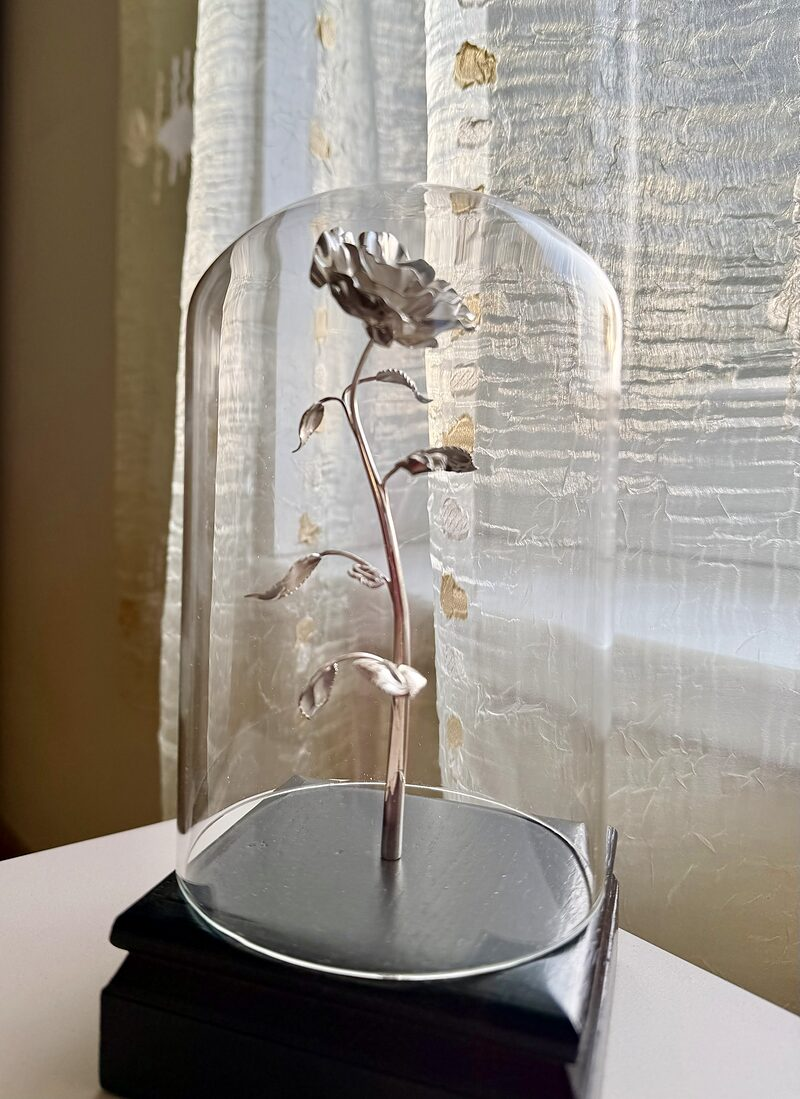
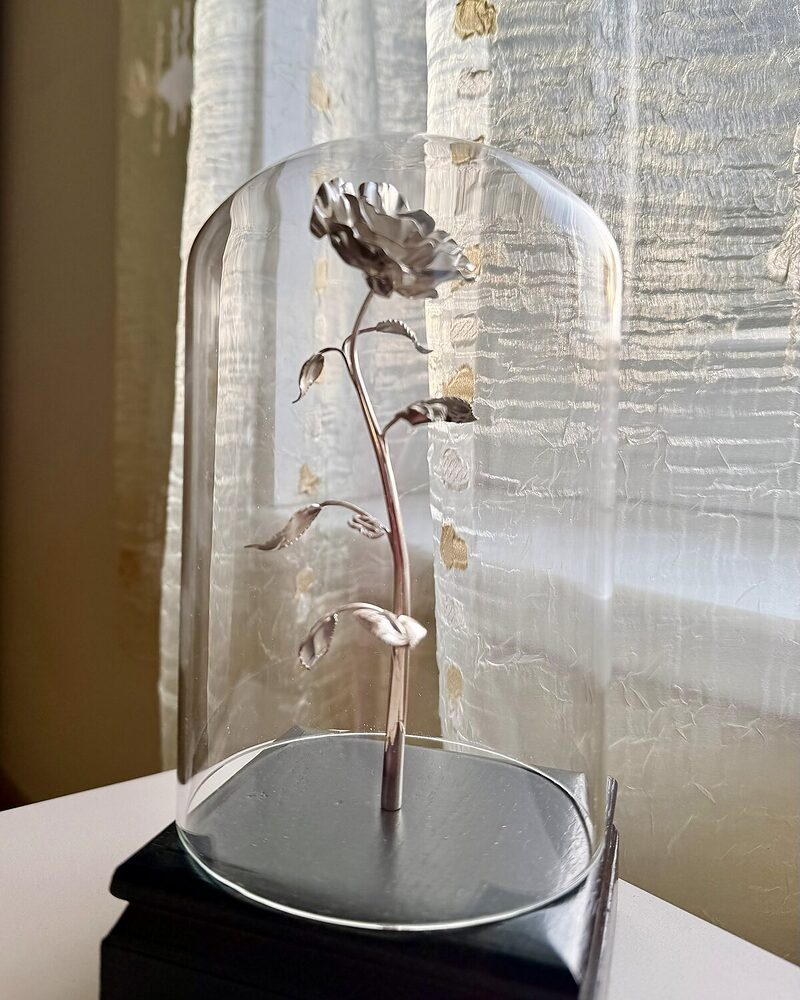
Все фотографии галереи приведены к одному размеру
Пропорции кадров расходились, и снимки в просмотре выходили разной
ширины: 247, 263, 274, 361 пикселя при одинаковой высоте. Теперь
кадрирование зашито в сами файлы — каждый снимок 1200×1500 и 800×1000,
рамка 4:5 одна и та же в ленте и в крупном просмотре. Проверено:
все 14 кадров имеют одинаковый собственный размер.

Два снимка цепи удалены, как и требует правило: на общем виде рамка
резала петлю по краям, у панорамного кадра шеи терялось 62 процента
ширины. Обложкой цепи стал кадр на шее.

diff --git a/src/styles/main.css b/src/styles/main.css
@@ -447,12 +447,13 @@ h1, h2, h3 {
   max-width: 100%;
 }
 #lightbox-image {
-  /* высота одна для всех кадров, ширина по самой фотографии,
-     чтобы миниатюры стояли вплотную к снимку, а не к пустой рамке */
+  /* рамка одна и та же для всех работ: та же пропорция 4:5, что и в ленте.
+     Кадр вписывается обрезкой, поэтому размер снимка везде одинаковый */
   height: clamp(12rem, 44vh, 30rem);
+  aspect-ratio: 4 / 5;
   width: auto;
   max-width: 100%;
-  object-fit: contain;
+  object-fit: cover;
   box-shadow: none;
 }
 .lightbox-caption { display: grid; gap: 0.4rem; width: min(100%, 62ch); text-align: left; }
